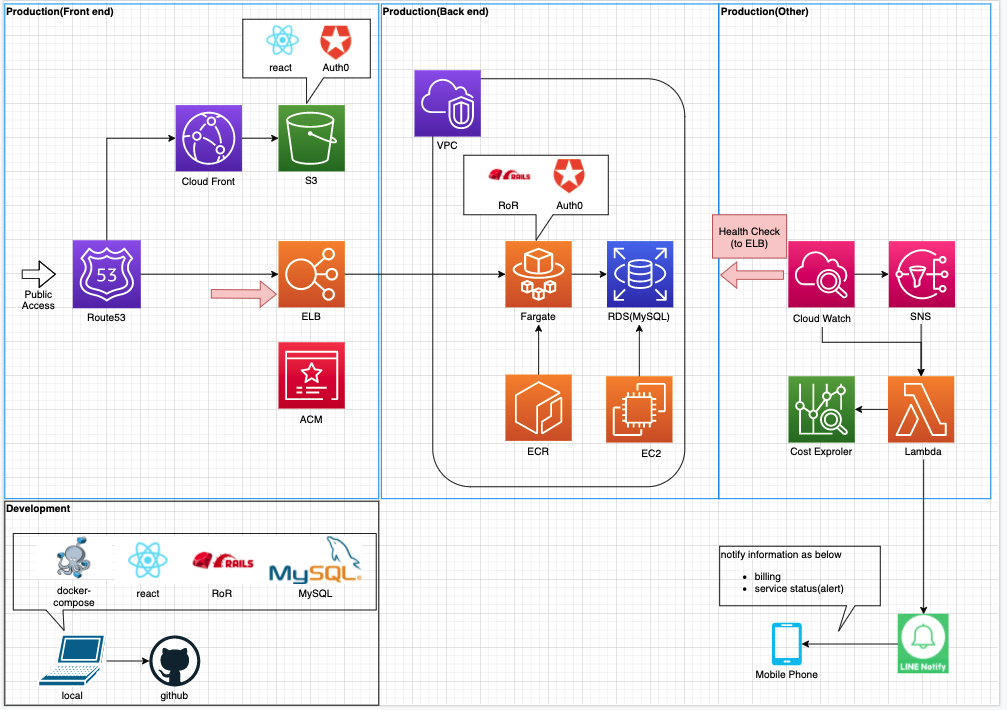
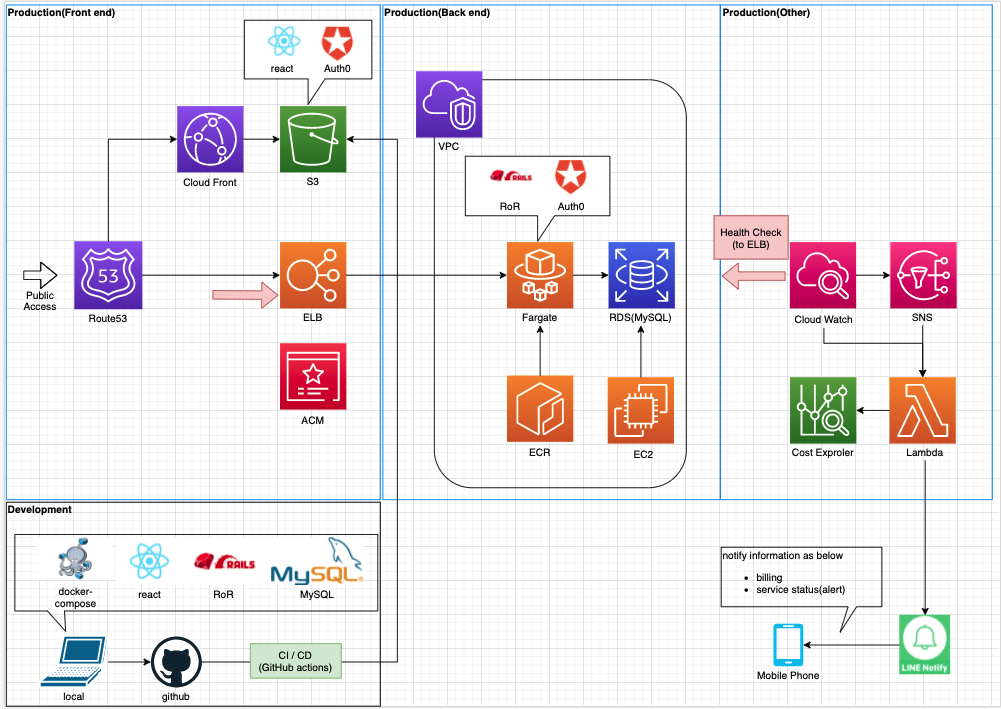
ドキュメント修正 : GitHub Actionsに関する旨を追記

diff --git a/README.md b/README.md
@@ -66,10 +66,10 @@ https://guteam.net/
     - docker-compose version 1.27.4
     - Terraform(予定)
 - XaaS
-    - [Auth0](https://auth0.com/jp)
+    - [auth0](https://auth0.com/jp)
     - [GitHub](https://github.co.jp/)
-    - [Line Notify](https://notify-bot.line.me/ja/)
-    - Circle CI(予定)
+        - GitHub Actions
+    - [LINE Notify](https://notify-bot.line.me/ja/)
 ### 論理構成図
 ![使い方②](docs/img/architecture.jpeg)
 ### E-R図
